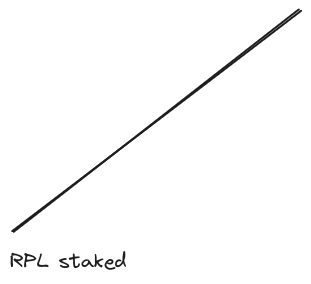
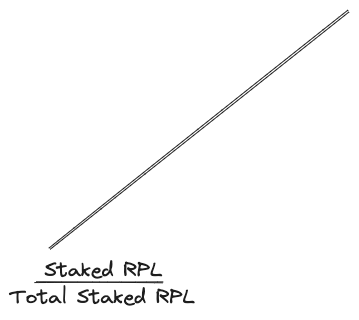
deprecate original cohesive proposal, introduce new ideas with an updated cohesive proposal, add new plots

Changed region(s): [[0.0289, 0.0282, 0.9839, 0.8169], [0.0289, 0.8169, 0.5498, 0.9577]]

diff --git a/CohesiveProposal_original.md b/CohesiveProposal_original.md
@@ -3,7 +3,7 @@
 Combine ideas from 4 categories of submissions:
 
 1. Bond Reduction through sublinear bonding
-1. Commission Cut Pot diverted to RPL stakers
+1. Commission Cut diverted to RPL stakers
 1. Universal Variable Commission
 1. Protect rETH from underperforming Node Operators
 
@@ -13,62 +13,61 @@ Defer to Valdorff’s recommendations here, using `Aggressive [alt]` from [bond_
 
 ### 2. Commission Cut:
 
-Mostly building off of [commission_cut](/initialProposalSubmission.md) and Valdorff's [direct_capture](https://github.com/Valdorff/rp-thoughts/blob/main/2023_11_rapid_research_incubator/direct_capture.md) with some modifications:
+Mostly building off [direct_capture2](https://github.com/Valdorff/rp-thoughts/blob/main/2023_11_rapid_research_incubator/direct_capture2.md) and [direct_capture](https://github.com/Valdorff/rp-thoughts/blob/main/2023_11_rapid_research_incubator/direct_capture.md) proposals from Valdorff, with some modifications:
 
-- Change RPL Inflation revenue distribution to scale linearly with Node Operator Borrowed Eth, see **RPL Inflation** below
-- Change ETH Commission Cut Pot revenue distribution to scale linearly with Staked RPL, see **ETH Commission Cut Pot** below
+- Change RPL inflation rewards rewards to scale linearly with Node Operator borrowed Eth, see [here](#rpl-inflation-rewards-curve)
+- Split “Staked RPL” into two categories:
+  - “NO Staked RPL”: rewards curve suggested in Direct Capture 2 (scales with _Borrowed Eth_ value of RPL Staked and therefore only accessible to Node Operators, see [here](#no-staked-rpl-rewards-curve))
+    - Note: "NO" is used throughout this proposal as an abbreviation for "Node Operator"
+  - “All Staked RPL”: method described in original Direct Capture (weighted per staked token and scales linearly, see [here](#all-staked-rpl-rewards-curve)) – independent from Node Operation duties, opening the market to allow pure RPL staking.
+    - Note: “All Staked RPL” still applies to RPL staked by Node Operators
+  - Transition: Start with ~Direct Capture2. Over time, transition to ~Direct Capture:
+    - Start with Staked RPL yield mostly going to “NO Staked RPL”, and proportionally increase “All Staked RPL” and decrease “NO Staked RPL” until all of this yield goes to “All Staked RPL”
 
-|RPL Inflation|ETH Commission Cut Pot|
-|-|-|
-|![RPLinflationRewards](/plots/RPLinflationRewards.png)|![EthCommissionCutRewards](/plots/EthCommissionCutRewards.png)|
-
-<br/>
-
-- Introduce "Base Commission" and "Bonus Commission" for Node Operators. "Base Commission" is paid to all Node Operators, while "Bonus Commission" eligibility is determined by RPL staked on a Node, with max bonus being an RPL Staked value equivalent to 10% borrowed Eth. See Bonus Commission Eligibility below:
-
-![BonusCommissionEligibility](/plots/BonusCommissionEligibility.png)
-
-<br/>
-
-Total Protocol Revenue Streams are visualized below:
-![RevenueStreams](/plots/RevenueStreams.png)
+Transition visualized below: Start with the pie chart on the left, transition to the chart on the right:
+![StakedRPLtransition](/plots/StakedRPLtransition.png)
 
 <br/>
 
-To understand the dynamics of the Eth Revenue Stream, take 4 example participants in order of most to least RPL bullishness. 
-1. Pure RPL Staker (Not Operating a Node)
-1. Node Operator A, fully RPL collateralized, earning all of the potential bonus commission
-1. Node Operator B, partially RPL collateralized, earning half of the potential bonus commission
-1. Node Operator C, no RPL staked (Eth Only), earning no bonus commission
+For reference:
 
-The Eth Revenue would be distributed as shown below:
-![BorrowedEthRevenue](/plots/BorrowedEthRevenue.png)
+#### RPL Inflation rewards curve
 
+![RPLinflationRewards.png](/plots/RPLinflationRewards.png)
 
-**Reason for the modifications:**
+<br/>
+
+#### NO Staked RPL rewards curve
+
+![DC2RewardsCurve](/plots/DC2RewardsCurve.png)
+
+<br/>
+
+#### All Staked RPL rewards curve
+
+![AllStakedRPLRewards](/plots/AllStakedRPLRewards.png)
+
+**Reason for the modification:**
 
 - Traditionally Rocket Pool has married RPL speculation with Node Operation, and has constrained target profitability to be a narrow window:
   - Requiring a minimum RPL bond of 10% borrowed ETH
   - Max effective RPL stake at 150% bonded ETH
   - Recently optimized even more narrowly for an RPL bond of 10-15% borrowed ETH with RPIP30.
-- This proposal provides a path to decoupling the RPL speculation from Node Operation and support the maximum number of participants in Rocket Pool. This is accomplished by:
-  - Opening the market to RPL skeptics (allowing Eth Only Node Operators, and linearly increasing bonus commission for Node Operators with RPL collaterals of 0-10% borrowed ETH).
-  - We also open the market to a wider range of RPL speculators by allowing pure RPL staking
-- The changes to the RPL Inflation Revenue Distribution introduces the "Rocket Pool Node Operator Flywheel" shown below:
-
-![RocketPoolNOflywheel](/plots/RocketPoolNOflywheel.png)
+- This proposal aims to smoothly transition toward decoupling RPL speculation from Node Operation and support the maximum number of participants in Rocket Pool
+  - To start with we are opening the market to RPL skeptics (allowing Eth Only Node Operators, and linearly increasing rewards for “NO Staked RPL” from RPL bonds of 0-12% borrowed ETH).
+  - We also open the market to a wider range of RPL speculators by allowing pure RPL staking, and over time transition to giving a larger commission cut to “All Staked RPL”
 
 <br/>
 
 **Summary:**
 
 - Individuals will be free to stake only ETH, only RPL, or any combination of the two.
-- Staking RPL unlocks access to the commission cut pot of Eth
-- Node Operation unlocks a base commission of Eth, and access to RPL inflation
-- Node Operators who also stake RPL unlock a bonus commission of Eth
-- Instead of 10% RPL Bond being the "minimum bond" requirement, it becomes the "max bonus". Examples:
-   - Your RPL collateral falls to 9%? No problem, you just get base commission + 90% of your potential bonus commission
-   - Don't like RPL and want to do Eth Only? No problem, you still get base commission
+- Staking RPL unlocks a commission cut of Eth
+- Node Operation unlocks a base commission cut of Eth, and access to RPL inflation
+- Node Operators who also stake RPL unlock a bonus commission cut of Eth
+
+A simple way to visualize eligibility for the different commission cuts, and the transition over time (RPL Staked NO also earn the commission cuts from "All Staked RPL" and "All NO's"):\
+![EligibilityTransition](/plots/EligibilityTransition.png)
 
 <br/>
 
